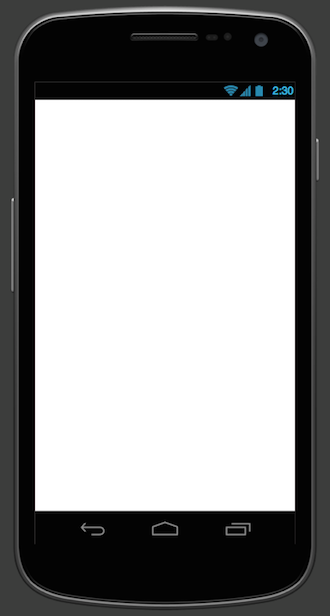
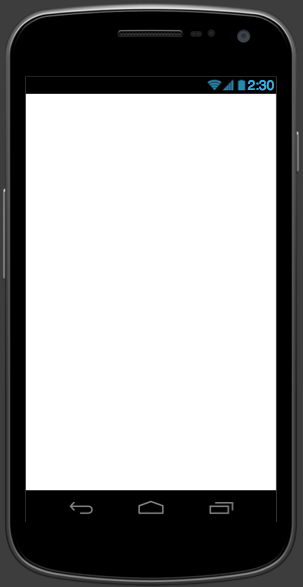
reduced cellphone image so it fits in a 800x600 browser

Changed region(s): [[0.0, 0.0, 1.0, 1.0]]

diff --git a/SecureAppGenerator/src/main/resources/static/css/main.css b/SecureAppGenerator/src/main/resources/static/css/main.css
@@ -4,35 +4,36 @@ body {
 
 .cellphone_logo {
     position: absolute;
-    top: 107px;
-    left: 43px;
+    top: 101px;
+    left: 33px;
     padding: 2px;
-    background-color: #4D4D4D;
+    background-color: #3C3D3C;
   }
 
 .cellphone_title {
     position: absolute;
-    top: 107px;
-    left: 77px;
-    width: 222px;
-    padding: 2px;
-    background-color: #4D4D4D;
+    top: 101px;
+    left: 67px;
+    width: 211px;
+    height: 32px;
+    padding: 3px;
+    background-color: #3C3D3C;
     color: #6ECDE4;
     font-weight: bold;
-    font-size: 25px;
+    font-size: 24px;
   }
 
 .cellphone_center {
     position: absolute;
-    top: 140px;
-    left: 43px;
-    width: 252px;
-    height: 400px;
+    top: 138px;
+    left: 33px;
+    width: 243px;
+    height: 352px;
     padding: 4px;
     background-color: #4D4D4D;
     color: yellow;
     font-weight: bold;
-    font-size: 25px;
+    font-size: 24px;
   }
 
 .main_title {
@@ -71,7 +72,7 @@ body {
 
 .info_area_2 {
     position: absolute;
-    top: 450px;
+    top: 375px;
     left: 450px;
     padding: 4px;
     background-color: #3C3D3C;
@@ -82,7 +83,7 @@ body {
   
 .info_area_3 {
     position: absolute;
-    top: 400px;
+    top: 350px;
     left: 550px;
     padding: 4px;
     background-color: #3C3D3C;
@@ -93,7 +94,7 @@ body {
   
 .button_start{
     position: absolute;
-    top: 600px;
+    top: 500px;
     left: 550px;
 	background-color: yellow;
     color: Black;
@@ -103,7 +104,7 @@ body {
 
 .button_previous{
     position: absolute;
-    top: 600px;
+    top: 500px;
     left: 450px;
 	background-color: yellow;
     color: Black;
@@ -113,7 +114,7 @@ body {
 
 .button_next{
     position: absolute;
-    top: 600px;
+    top: 500px;
     left: 650px;
 	background-color: yellow;
     color: Black;
